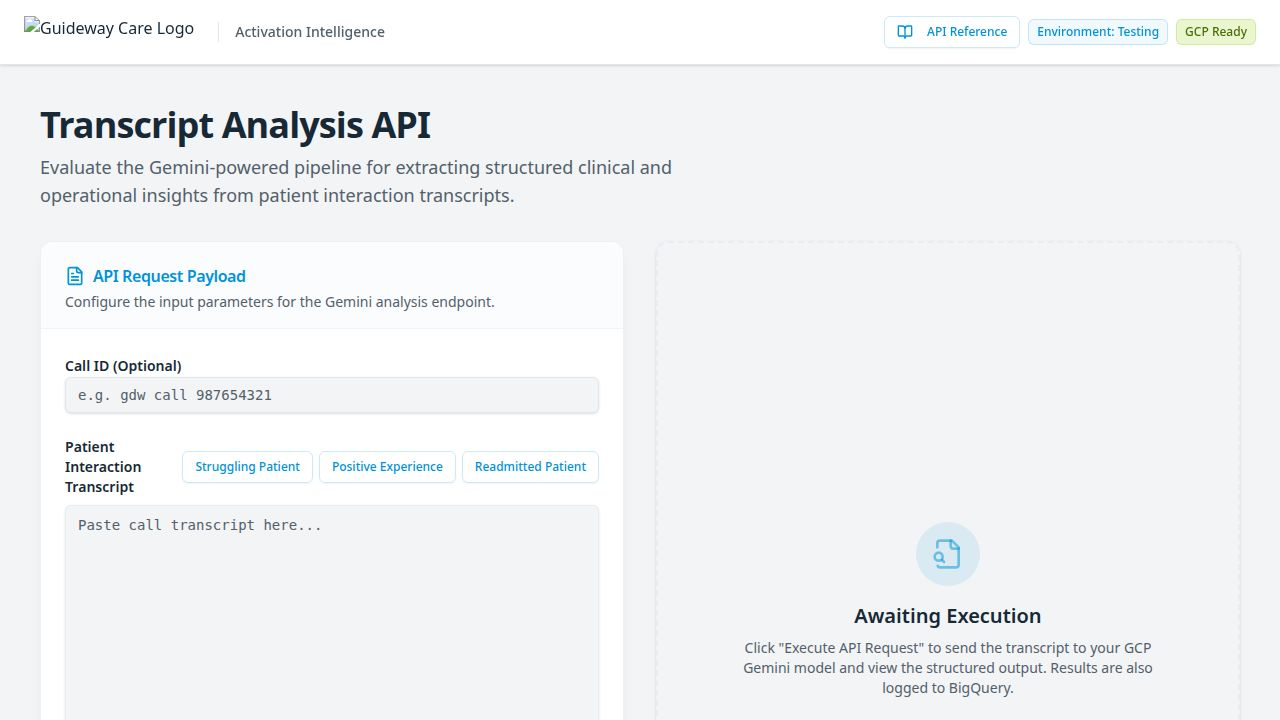
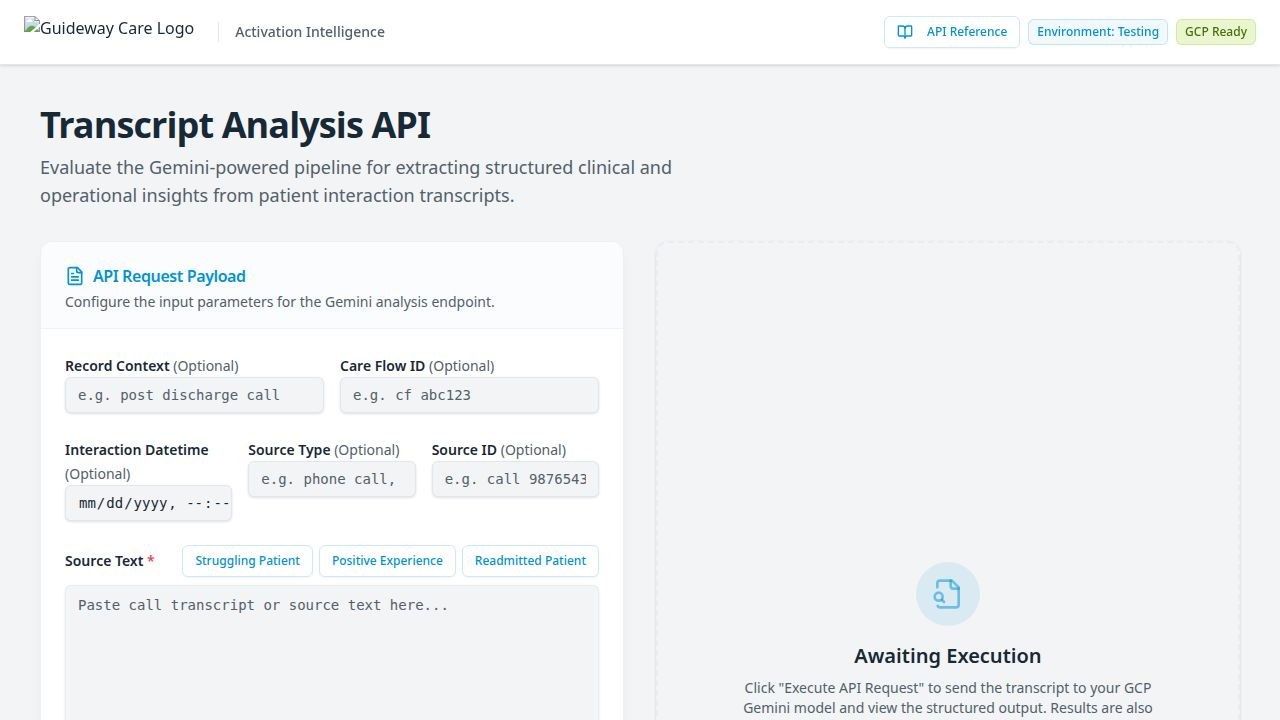
Update system to capture new metadata for analysis
Refactor Home.tsx and Reference.tsx to replace `callId` and `transcript` with new metadata fields like `record_context`, `care_flow_id`, `interaction_datetime`, `source_type`, `source_id`, and `source_text`. Update API endpoint and server-side logic in `gemini.ts` and `routes.ts` to handle these new fields, including schema and prompt template adjustments.

Replit-Commit-Author: Agent
Replit-Commit-Session-Id: 424d9a8e-b19d-456f-a04b-17f4d89e9978
Replit-Commit-Checkpoint-Type: full_checkpoint
Replit-Commit-Event-Id: 71a06023-6c11-4369-8310-860ffd95bb7d
Replit-Commit-Screenshot-Url: https://storage.googleapis.com/screenshot-production-us-central1/c7e2bf30-0b7c-40d0-8252-ea213ab008ee/424d9a8e-b19d-456f-a04b-17f4d89e9978/fPiwRCu
Replit-Helium-Checkpoint-Created: true

diff --git a/client/src/pages/Home.tsx b/client/src/pages/Home.tsx
@@ -93,8 +93,12 @@ Patient's Wife: Thank you so much, Sarah. We really need the help right now.`,
 
 
 export default function Home() {
-  const [callId, setCallId] = useState("");
-  const [transcript, setTranscript] = useState("");
+  const [recordContext, setRecordContext] = useState("");
+  const [careFlowId, setCareFlowId] = useState("");
+  const [interactionDatetime, setInteractionDatetime] = useState("");
+  const [sourceType, setSourceType] = useState("");
+  const [sourceId, setSourceId] = useState("");
+  const [sourceText, setSourceText] = useState("");
   const [isProcessing, setIsProcessing] = useState(false);
   const [result, setResult] = useState<any>(null);
   const [showRawJson, setShowRawJson] = useState(false);
@@ -114,10 +118,10 @@ export default function Home() {
   }, []);
 
   const handleTestApi = async () => {
-    if (!transcript.trim()) {
+    if (!sourceText.trim()) {
       toast({
-        title: "Missing Transcript",
-        description: "Please provide a transcript to analyze.",
+        title: "Missing Source Text",
+        description: "Please provide source text to analyze.",
         variant: "destructive",
       });
       return;
@@ -127,14 +131,16 @@ export default function Home() {
     setResult(null);
     
     try {
-      const isCustom = customPrompt.trim() !== defaultPrompt.trim();
       const res = await fetch("/api/analyze", {
         method: "POST",
         headers: { "Content-Type": "application/json" },
         body: JSON.stringify({
-          callId: callId.trim() || undefined,
-          transcript: transcript.trim(),
-          customPrompt: isCustom ? customPrompt.trim() : undefined,
+          record_context: recordContext.trim() || undefined,
+          care_flow_id: careFlowId.trim() || undefined,
+          interaction_datetime: interactionDatetime.trim() || undefined,
+          source_type: sourceType.trim() || undefined,
+          source_id: sourceId.trim() || undefined,
+          source_text: sourceText.trim(),
         }),
       });
       
@@ -213,21 +219,70 @@ export default function Home() {
               </CardDescription>
             </CardHeader>
             <CardContent className="space-y-6 pt-6 flex-grow">
-              <div className="space-y-2">
-                <Label htmlFor="callId" className="text-sm font-semibold text-foreground">Call ID (Optional)</Label>
-                <Input 
-                  id="callId" 
-                  placeholder="e.g. gdw_call_987654321" 
-                  value={callId}
-                  onChange={(e) => setCallId(e.target.value)}
-                  className="font-mono text-sm shadow-inner bg-background"
-                  data-testid="input-call-id"
-                />
+              <div className="grid grid-cols-2 gap-4">
+                <div className="space-y-2">
+                  <Label htmlFor="recordContext" className="text-sm font-semibold text-foreground">Record Context <span className="text-muted-foreground font-normal">(Optional)</span></Label>
+                  <Input 
+                    id="recordContext" 
+                    placeholder="e.g. post_discharge_call" 
+                    value={recordContext}
+                    onChange={(e) => setRecordContext(e.target.value)}
+                    className="font-mono text-sm shadow-inner bg-background"
+                    data-testid="input-record-context"
+                  />
+                </div>
+                <div className="space-y-2">
+                  <Label htmlFor="careFlowId" className="text-sm font-semibold text-foreground">Care Flow ID <span className="text-muted-foreground font-normal">(Optional)</span></Label>
+                  <Input 
+                    id="careFlowId" 
+                    placeholder="e.g. cf_abc123" 
+                    value={careFlowId}
+                    onChange={(e) => setCareFlowId(e.target.value)}
+                    className="font-mono text-sm shadow-inner bg-background"
+                    data-testid="input-care-flow-id"
+                  />
+                </div>
+              </div>
+
+              <div className="grid grid-cols-3 gap-4">
+                <div className="space-y-2">
+                  <Label htmlFor="interactionDatetime" className="text-sm font-semibold text-foreground">Interaction Datetime <span className="text-muted-foreground font-normal">(Optional)</span></Label>
+                  <Input 
+                    id="interactionDatetime" 
+                    type="datetime-local"
+                    value={interactionDatetime}
+                    onChange={(e) => setInteractionDatetime(e.target.value)}
+                    className="font-mono text-sm shadow-inner bg-background"
+                    data-testid="input-interaction-datetime"
+                  />
+                </div>
+                <div className="space-y-2">
+                  <Label htmlFor="sourceType" className="text-sm font-semibold text-foreground">Source Type <span className="text-muted-foreground font-normal">(Optional)</span></Label>
+                  <Input 
+                    id="sourceType" 
+                    placeholder="e.g. phone_call, chat" 
+                    value={sourceType}
+                    onChange={(e) => setSourceType(e.target.value)}
+                    className="font-mono text-sm shadow-inner bg-background"
+                    data-testid="input-source-type"
+                  />
+                </div>
+                <div className="space-y-2">
+                  <Label htmlFor="sourceId" className="text-sm font-semibold text-foreground">Source ID <span className="text-muted-foreground font-normal">(Optional)</span></Label>
+                  <Input 
+                    id="sourceId" 
+                    placeholder="e.g. call_987654321" 
+                    value={sourceId}
+                    onChange={(e) => setSourceId(e.target.value)}
+                    className="font-mono text-sm shadow-inner bg-background"
+                    data-testid="input-source-id"
+                  />
+                </div>
               </div>
               
               <div className="space-y-2 flex-grow flex flex-col">
                 <div className="flex justify-between items-center">
-                  <Label htmlFor="transcript" className="text-sm font-semibold text-foreground">Patient Interaction Transcript</Label>
+                  <Label htmlFor="sourceText" className="text-sm font-semibold text-foreground">Source Text <span className="text-destructive">*</span></Label>
                   <div className="flex gap-1.5">
                     {Object.entries(SAMPLE_TRANSCRIPTS).map(([key, sample]) => (
                       <Button
@@ -235,7 +290,7 @@ export default function Home() {
                         variant="outline"
                         size="sm"
                         className="h-7 text-xs px-3 border-primary/20 text-primary hover:bg-primary hover:text-white transition-colors"
-                        onClick={() => setTranscript(sample.transcript)}
+                        onClick={() => setSourceText(sample.transcript)}
                         data-testid={`button-load-sample-${key}`}
                       >
                         {sample.label}
@@ -244,12 +299,12 @@ export default function Home() {
                   </div>
                 </div>
                 <Textarea 
-                  id="transcript" 
-                  placeholder="Paste call transcript here..." 
+                  id="sourceText" 
+                  placeholder="Paste call transcript or source text here..." 
                   className="min-h-[300px] flex-grow font-mono text-sm leading-relaxed bg-background shadow-inner resize-y border-border/60 focus-visible:ring-primary"
-                  value={transcript}
-                  onChange={(e) => setTranscript(e.target.value)}
-                  data-testid="input-transcript"
+                  value={sourceText}
+                  onChange={(e) => setSourceText(e.target.value)}
+                  data-testid="input-source-text"
                 />
               </div>
 
@@ -377,7 +432,10 @@ export default function Home() {
                   ) : (
                     <CardContent className="font-mono text-xs overflow-auto bg-[#172938] p-4 rounded-b-lg text-green-400">
                       <pre>{JSON.stringify({ 
-                        callId: result.data.callId,
+                        record_context: result.data.record_context,
+                        care_flow_id: result.data.care_flow_id,
+                        source_type: result.data.source_type,
+                        source_id: result.data.source_id,
                         processedAt: result.data.processedAt,
                         processingTimeMs: result.data.processingTimeMs,
                         status: "success",

diff --git a/client/src/pages/Reference.tsx b/client/src/pages/Reference.tsx
@@ -52,7 +52,7 @@ export default function Reference() {
           <CardContent className="space-y-6">
             <div>
               <h3 className="text-white font-semibold mb-2">Description</h3>
-              <p className="text-gray-300">Accepts a call ID and patient transcript, processes it through Gemini AI, and returns structured clinical analysis.</p>
+              <p className="text-gray-300">Accepts source text with contextual metadata (record context, care flow, source type), processes it through Gemini AI, and returns structured clinical analysis with HTML-formatted output.</p>
             </div>
 
             <Separator className="bg-[#0098db]/10" />
@@ -61,15 +61,22 @@ export default function Reference() {
               <h3 className="text-white font-semibold mb-2">Request Body</h3>
               <p className="text-gray-400 text-sm mb-2">Content-Type: application/json</p>
               <div className="bg-[#0d1520] p-4 rounded-lg text-sm space-y-2 mb-4">
-                <p className="text-gray-300"><span className="text-[#96d410]">callId</span> <span className="text-gray-500">(string, optional)</span> — Unique identifier for the call. Auto-generated if omitted.</p>
-                <p className="text-gray-300"><span className="text-[#96d410]">transcript</span> <span className="text-gray-500">(string, required)</span> — The full patient call transcript text.</p>
-                <p className="text-gray-300"><span className="text-[#96d410]">customPrompt</span> <span className="text-gray-500">(string, optional)</span> — Override the default analysis prompt.</p>
+                <p className="text-gray-300"><span className="text-[#96d410]">record_context</span> <span className="text-gray-500">(string, optional)</span> — Context for the record (e.g. post_discharge_call, follow_up).</p>
+                <p className="text-gray-300"><span className="text-[#96d410]">care_flow_id</span> <span className="text-gray-500">(string, optional)</span> — Identifier for the care flow or pathway.</p>
+                <p className="text-gray-300"><span className="text-[#96d410]">interaction_datetime</span> <span className="text-gray-500">(string, optional)</span> — ISO 8601 datetime of the interaction. Defaults to current time.</p>
+                <p className="text-gray-300"><span className="text-[#96d410]">source_type</span> <span className="text-gray-500">(string, optional)</span> — Type of source (e.g. phone_call, chat, note).</p>
+                <p className="text-gray-300"><span className="text-[#96d410]">source_id</span> <span className="text-gray-500">(string, optional)</span> — Unique identifier for the source. Auto-generated if omitted.</p>
+                <p className="text-gray-300"><span className="text-[#96d410]">source_text</span> <span className="text-gray-500">(string, required)</span> — The full patient call transcript or interaction text.</p>
               </div>
               <h4 className="text-white font-semibold mb-2 text-sm">Example Request Body</h4>
               <pre className="bg-[#0d1520] text-gray-300 p-4 rounded-lg text-sm overflow-x-auto" data-testid="text-request-body">
 {`{
-  "callId": "CALL-001",
-  "transcript": "Care Guide: Hello, this is Maria from Guideway Care. Am I speaking with Mrs. Thompson?\\nPatient: Yes, this is she.\\nCare Guide: I'm calling to check in on you since you were discharged. How have you been feeling?\\nPatient: I'm doing much better, thank you. Still a little sore but getting around okay."
+  "record_context": "post_discharge_call",
+  "care_flow_id": "cf_abc123",
+  "interaction_datetime": "2026-03-06T10:30:00Z",
+  "source_type": "phone_call",
+  "source_id": "call_987654321",
+  "source_text": "Care Guide: Hello, this is Maria from Guideway Care. Am I speaking with Mrs. Thompson?\\nPatient: Yes, this is she.\\nCare Guide: I'm calling to check in on you since you were discharged. How have you been feeling?\\nPatient: I'm doing much better, thank you. Still a little sore but getting around okay."
 }`}
               </pre>
             </div>
@@ -82,16 +89,19 @@ export default function Reference() {
 {`{
   "status": "success",
   "data": {
-    "callId": "12345",
+    "record_context": "post_discharge_call",
+    "care_flow_id": "cf_abc123",
+    "interaction_datetime": "2026-03-06T10:30:00Z",
+    "source_type": "phone_call",
+    "source_id": "call_987654321",
     "processedAt": "2026-03-06T12:00:00.000Z",
     "processingTimeMs": 1234,
-    "promptUsed": "...",
     "analysis": {
       "summary": "Brief overall summary of the call...",
       "disposition_change": true | false,
       "disposition_change_note": "Current location if readmitted, or null",
-      "transition_status": "Bulleted list with [STATUS] tags for all 11 topics",
-      "follow_up_areas": "Bulleted list of follow-up items"
+      "transition_status": "<b>Overall Feeling:</b> <span style='...'>Good</span><br>...",
+      "follow_up_areas": "<ul><li><b>Topic:</b> Detail...</li></ul>"
     }
   }
 }`}
@@ -193,8 +203,11 @@ Patient cancelled appointment due to lack of transportation.<br><br>`}
 {`curl -X POST https://YOUR-CLOUD-RUN-URL/api/analyze \\
   -H "Content-Type: application/json" \\
   -d '{
-    "callId": "CALL-001",
-    "transcript": "Care Guide: Hello, this is Maria from Guideway Care..."
+    "record_context": "post_discharge_call",
+    "care_flow_id": "cf_abc123",
+    "source_type": "phone_call",
+    "source_id": "call_987654321",
+    "source_text": "Care Guide: Hello, this is Maria from Guideway Care..."
   }'`}
               </pre>
             </div>
@@ -275,8 +288,12 @@ Patient cancelled appointment due to lack of transportation.<br><br>`}
                 <p className="text-[#96d410] font-mono text-sm mb-1">Body</p>
                 <pre className="text-gray-300 text-sm mt-1">
 {`{
-  "callId": "{{awell.call_id}}",
-  "transcript": "{{awell.transcript}}"
+  "record_context": "{{awell.record_context}}",
+  "care_flow_id": "{{awell.care_flow_id}}",
+  "interaction_datetime": "{{awell.interaction_datetime}}",
+  "source_type": "{{awell.source_type}}",
+  "source_id": "{{awell.source_id}}",
+  "source_text": "{{awell.source_text}}"
 }`}
                 </pre>
               </div>

diff --git a/server/routes.ts b/server/routes.ts
@@ -15,37 +15,37 @@ export async function registerRoutes(
 
   app.post("/api/analyze", async (req, res) => {
     const startTime = Date.now();
-    const { callId, transcript, customPrompt } = req.body;
+    const { record_context, care_flow_id, interaction_datetime, source_type, source_id, source_text } = req.body;
 
-    const resolvedCallId = callId || `call_${randomUUID().slice(0, 12)}`;
-
-    if (!transcript || typeof transcript !== "string" || transcript.trim().length === 0) {
+    if (!source_text || typeof source_text !== "string" || source_text.trim().length === 0) {
       const processingTime = Date.now() - startTime;
+      const logId = source_id || care_flow_id || `call_${randomUUID().slice(0, 12)}`;
       await logTooBigQuery({
-        callId: resolvedCallId,
+        callId: logId,
         transcriptLength: 0,
         processingTimeMs: processingTime,
         status: "error",
-        errorMessage: "Missing or empty transcript",
+        errorMessage: "Missing or empty source_text",
       });
 
       return res.status(400).json({
         status: "error",
-        message: "A non-empty transcript string is required.",
+        message: "A non-empty source_text string is required.",
       });
     }
 
+    const resolvedSourceId = source_id || `call_${randomUUID().slice(0, 12)}`;
+
     try {
-      const { analysis, promptUsed } = await analyzeTranscript(
-        resolvedCallId,
-        transcript.trim(),
-        customPrompt || undefined
+      const { analysis } = await analyzeTranscript(
+        resolvedSourceId,
+        source_text.trim()
       );
       const processingTime = Date.now() - startTime;
 
       await logTooBigQuery({
-        callId: resolvedCallId,
-        transcriptLength: transcript.length,
+        callId: resolvedSourceId,
+        transcriptLength: source_text.length,
         summary: analysis.summary,
         areasForFollowUp: [analysis.follow_up_areas],
         questionsCount: 0,
@@ -56,7 +56,11 @@ export async function registerRoutes(
       return res.json({
         status: "success",
         data: {
-          callId: resolvedCallId,
+          record_context: record_context || null,
+          care_flow_id: care_flow_id || null,
+          interaction_datetime: interaction_datetime || new Date().toISOString(),
+          source_type: source_type || null,
+          source_id: resolvedSourceId,
           processedAt: new Date().toISOString(),
           processingTimeMs: processingTime,
           analysis,
@@ -66,8 +70,8 @@ export async function registerRoutes(
       const processingTime = Date.now() - startTime;
 
       await logTooBigQuery({
-        callId: resolvedCallId,
-        transcriptLength: transcript.length,
+        callId: resolvedSourceId,
+        transcriptLength: source_text.length,
         processingTimeMs: processingTime,
         status: "error",
         errorMessage: error.message,

diff --git a/server/gemini.ts b/server/gemini.ts
@@ -67,14 +67,14 @@ Guidelines:
 - disposition_change_note: If disposition_change is true, describe where the patient currently is (home, hospital, care facility, SNF, rehab, etc.). Return JSON null if the patient was not readmitted, the question was not asked, or no response was provided.
 - transition_status: Return a single HTML string as a valid JSON string value. Do NOT start the string with a quote or any character before the first <b> tag. Use inline style attributes with single quotes for color-coded status badges (e.g. style='display:inline-block;padding:1px 8px;...'). Use <b> for topic labels, <span style='...'> for colored status badges, and <br> for line breaks. Include all 11 topics. The entire value must be a properly quoted JSON string. The first character of the string content must be the opening < of the first <b> tag.
 - follow_up_areas: Return a single HTML string as a valid JSON string value. Use <ul>/<li> with <b> for topic names. Use single quotes for any HTML attributes. Only include items with issues. If none, return "<p>No follow-up areas identified.</p>".
-Call ID: {{CALL_ID}}
+Source ID: {{SOURCE_ID}}
 
-TRANSCRIPT:
-{{TRANSCRIPT}}`;
+SOURCE TEXT:
+{{SOURCE_TEXT}}`;
 
 export async function analyzeTranscript(
-  callId: string,
-  transcript: string,
+  sourceId: string,
+  sourceText: string,
   customPrompt?: string
 ): Promise<{ analysis: TranscriptAnalysis; promptUsed: string }> {
   const vertex = getVertexAI();
@@ -89,8 +89,8 @@ export async function analyzeTranscript(
 
   const template = customPrompt || DEFAULT_PROMPT_TEMPLATE;
   const prompt = template
-    .replace("{{CALL_ID}}", callId)
-    .replace("{{TRANSCRIPT}}", transcript);
+    .replace("{{SOURCE_ID}}", sourceId)
+    .replace("{{SOURCE_TEXT}}", sourceText);
 
   const result = await model.generateContent(prompt);
   const response = result.response;
